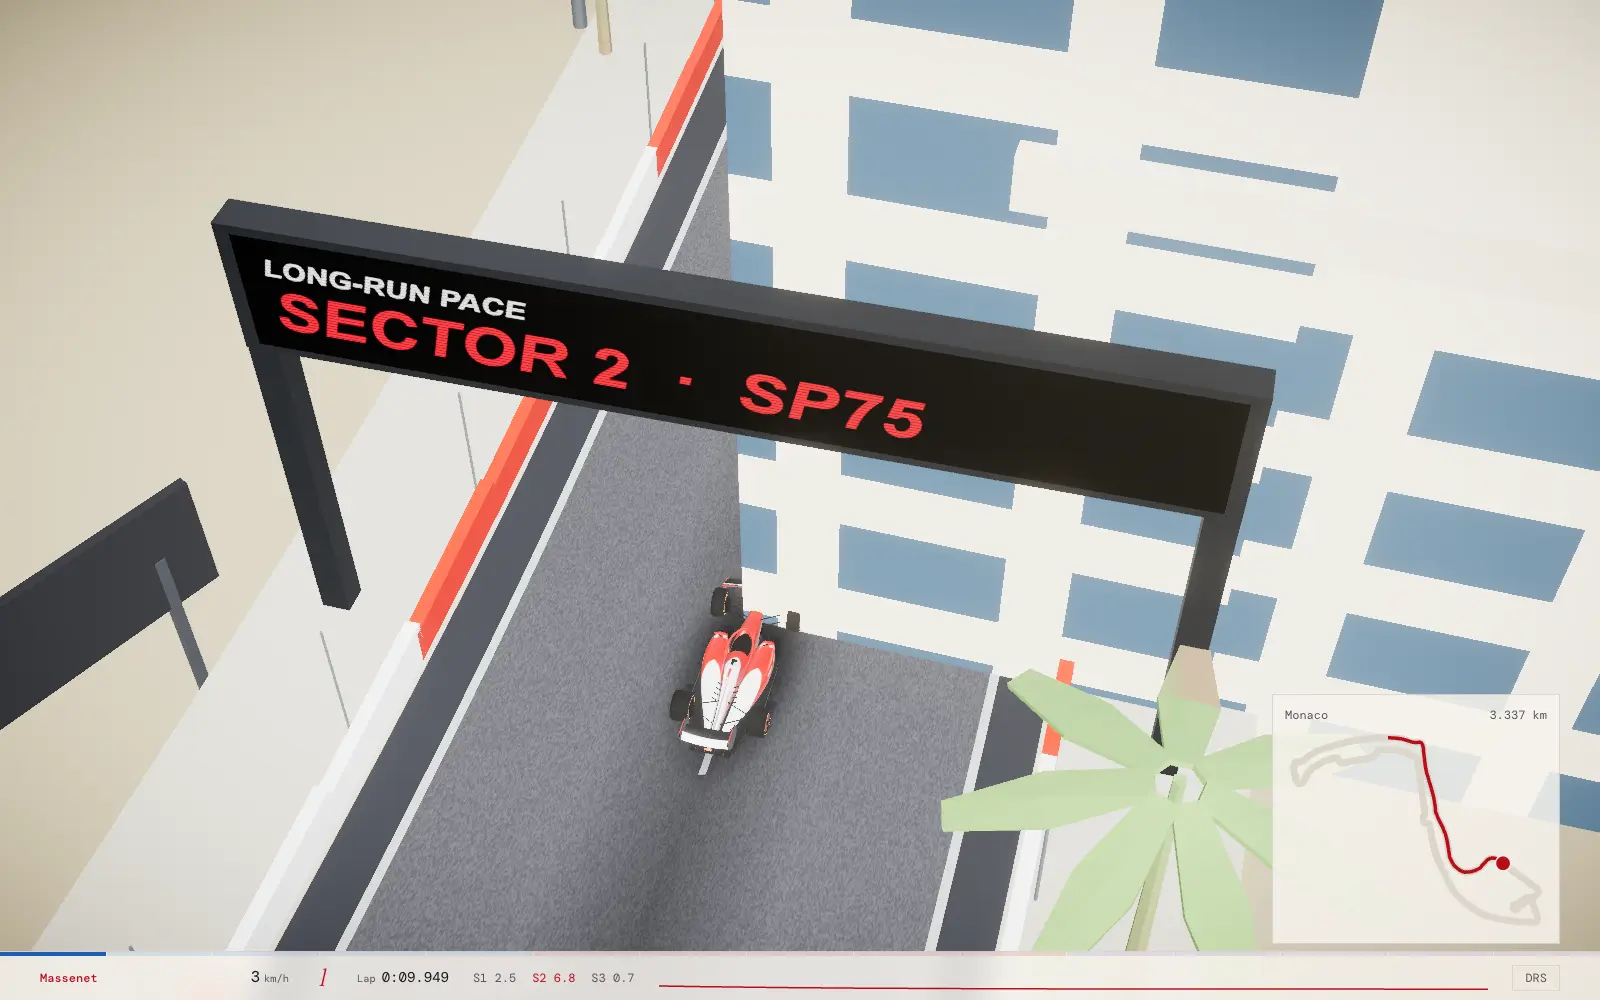
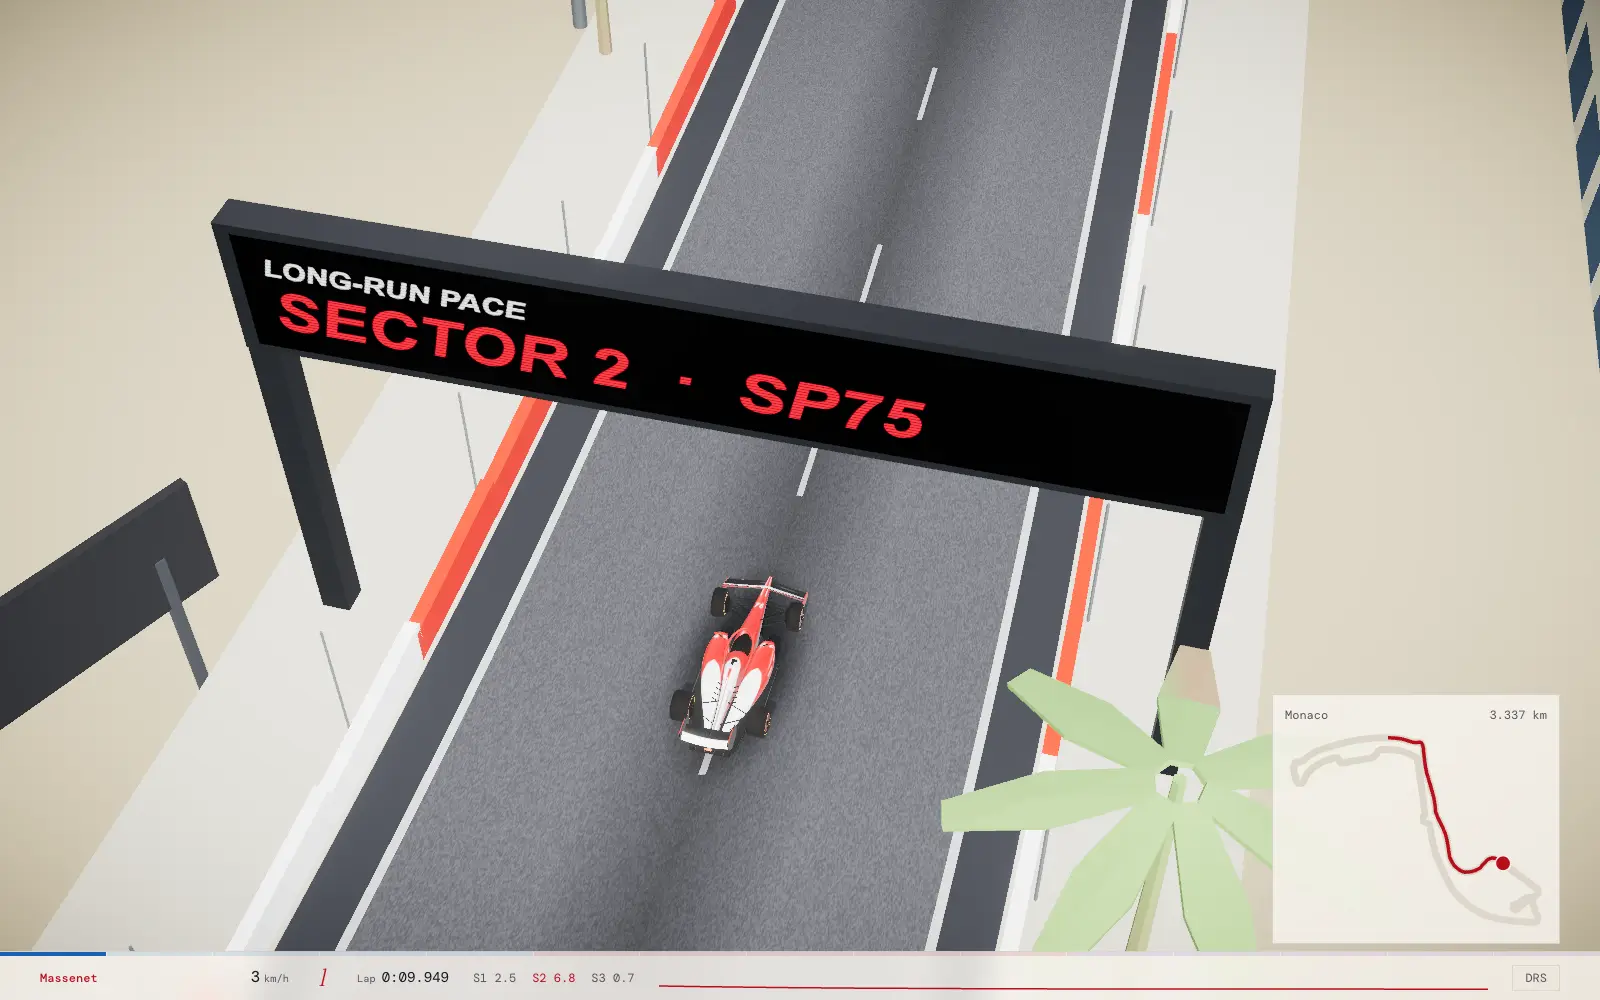
Move the Casino and Grand Hotel off the track
Both buildings crossed the road at Casino Square. Place them clear of
every stretch of track with their fronts facing it, and re-render the
TDA backdrop that shows the area.

diff --git a/components/three/Landmarks.tsx b/components/three/Landmarks.tsx
@@ -2,7 +2,7 @@
 
 import { useMemo } from "react";
 import { ExtrudeGeometry, MeshStandardMaterial, Shape, Vector2 } from "three";
-import { casinoSpot, circuit, hotelSpot, seatAt } from "@/lib/circuit";
+import { casinoSpot, casinoYaw, circuit, hotelSpot, hotelYaw, seatAt } from "@/lib/circuit";
 import { addWindows } from "./surfaces";
 
 const lowestPoint = (() => {
@@ -49,7 +49,7 @@ function Casino({ wall, stone }: { wall: MeshStandardMaterial; stone: MeshStanda
   const [x, z] = casinoSpot;
   const ground = seatAt(x, z, 30);
   return (
-    <group position={[x, ground, z]} rotation={[0, -0.7, 0]}>
+    <group position={[x, ground, z]} rotation={[0, casinoYaw, 0]}>
       <mesh material={wall} position={[0, 9, 0]}>
         <boxGeometry args={[66, 18, 34]} />
       </mesh>
@@ -91,7 +91,7 @@ function GrandHotel({ wall, stone }: { wall: MeshStandardMaterial; stone: MeshSt
   const [x, z] = hotelSpot;
   const ground = seatAt(x, z, 30);
   return (
-    <group position={[x, ground, z]} rotation={[0, 0.5, 0]}>
+    <group position={[x, ground, z]} rotation={[0, hotelYaw, 0]}>
       <mesh material={wall} position={[0, 15, 0]}>
         <boxGeometry args={[74, 30, 26]} />
       </mesh>

diff --git a/lib/circuit.ts b/lib/circuit.ts
@@ -167,15 +167,11 @@ export function seaOutline() {
 
 const outline = seaOutline();
 
-function besideTrack(lap: number, offset: number): [number, number] {
-  const point = circuit.getPointAt(lap);
-  const side = new Vector3().crossVectors(circuit.getTangentAt(lap), new Vector3(0, 1, 0)).normalize();
-  const spot = point.addScaledVector(side, offset);
-  return [spot.x, spot.z];
-}
-
-export const casinoSpot = besideTrack(0.27, trackHalfWidth + 34);
-export const hotelSpot = besideTrack(0.245, -(trackHalfWidth + 26));
+// Chosen so each footprint stays 14 clear of every part of the road, with its front facing the track
+export const casinoSpot: [number, number] = [127.1, -379.6];
+export const casinoYaw = 1.12;
+export const hotelSpot: [number, number] = [266.4, -386.9];
+export const hotelYaw = -2.212;
 const landmarkSpots: [number, number, number][] = [
   [...casinoSpot, 62],
   [...hotelSpot, 46],
